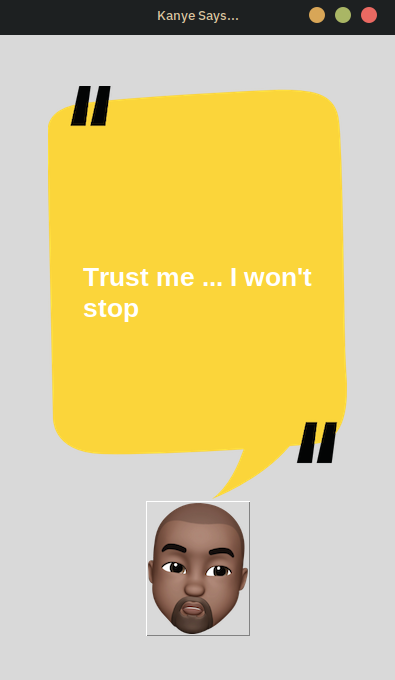
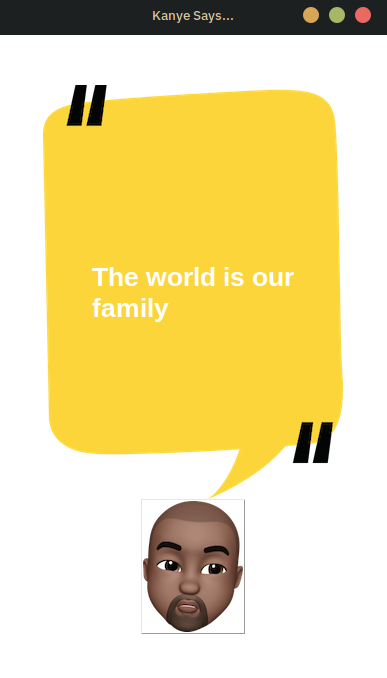
feat: change window background color to white and remove canvas borders

diff --git a/main.py b/main.py
@@ -15,10 +15,10 @@ def get_quote():
 # Creating the main window
 window = Tk()
 window.title("Kanye Says...")
-window.config(padx=50, pady=50)
+window.config(padx=50, pady=50, bg="white")
 
 # Creating the canvas to display background image and quote
-canvas = Canvas(width=300, height=414)
+canvas = Canvas(width=300, height=414, bg="white", highlightthickness=0)
 background_img = PhotoImage(file="assets/background.png")
 canvas.create_image(150, 207, image=background_img)
 quote_text = canvas.create_text(
@@ -33,7 +33,9 @@ canvas.grid(row=0, column=0)
 
 # Creating the Kanye button
 kanye_img = PhotoImage(file="assets/kanye.png")
-kanye_button = Button(image=kanye_img, highlightthickness=0, command=get_quote)
+kanye_button = Button(
+    image=kanye_img, highlightthickness=0, command=get_quote, bg="white"
+)
 kanye_button.grid(row=1, column=0)
 
 get_quote()
